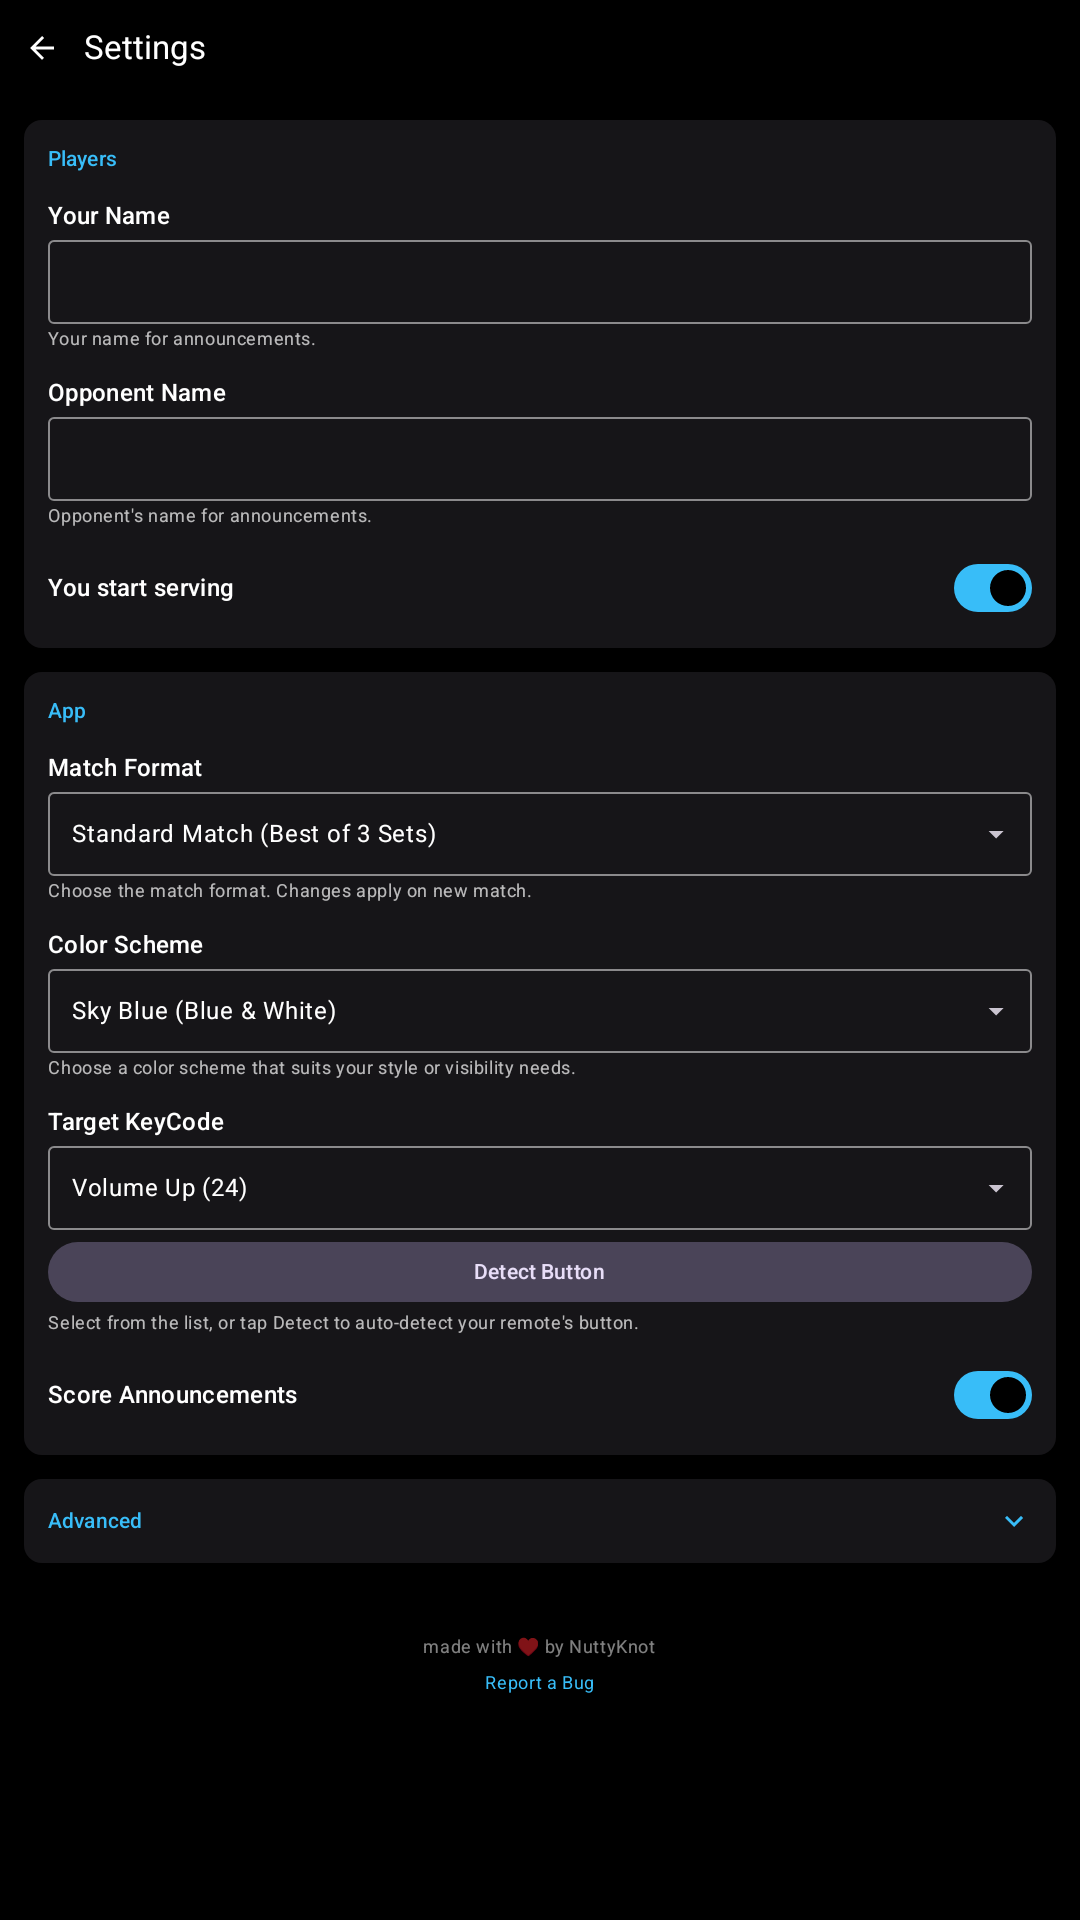
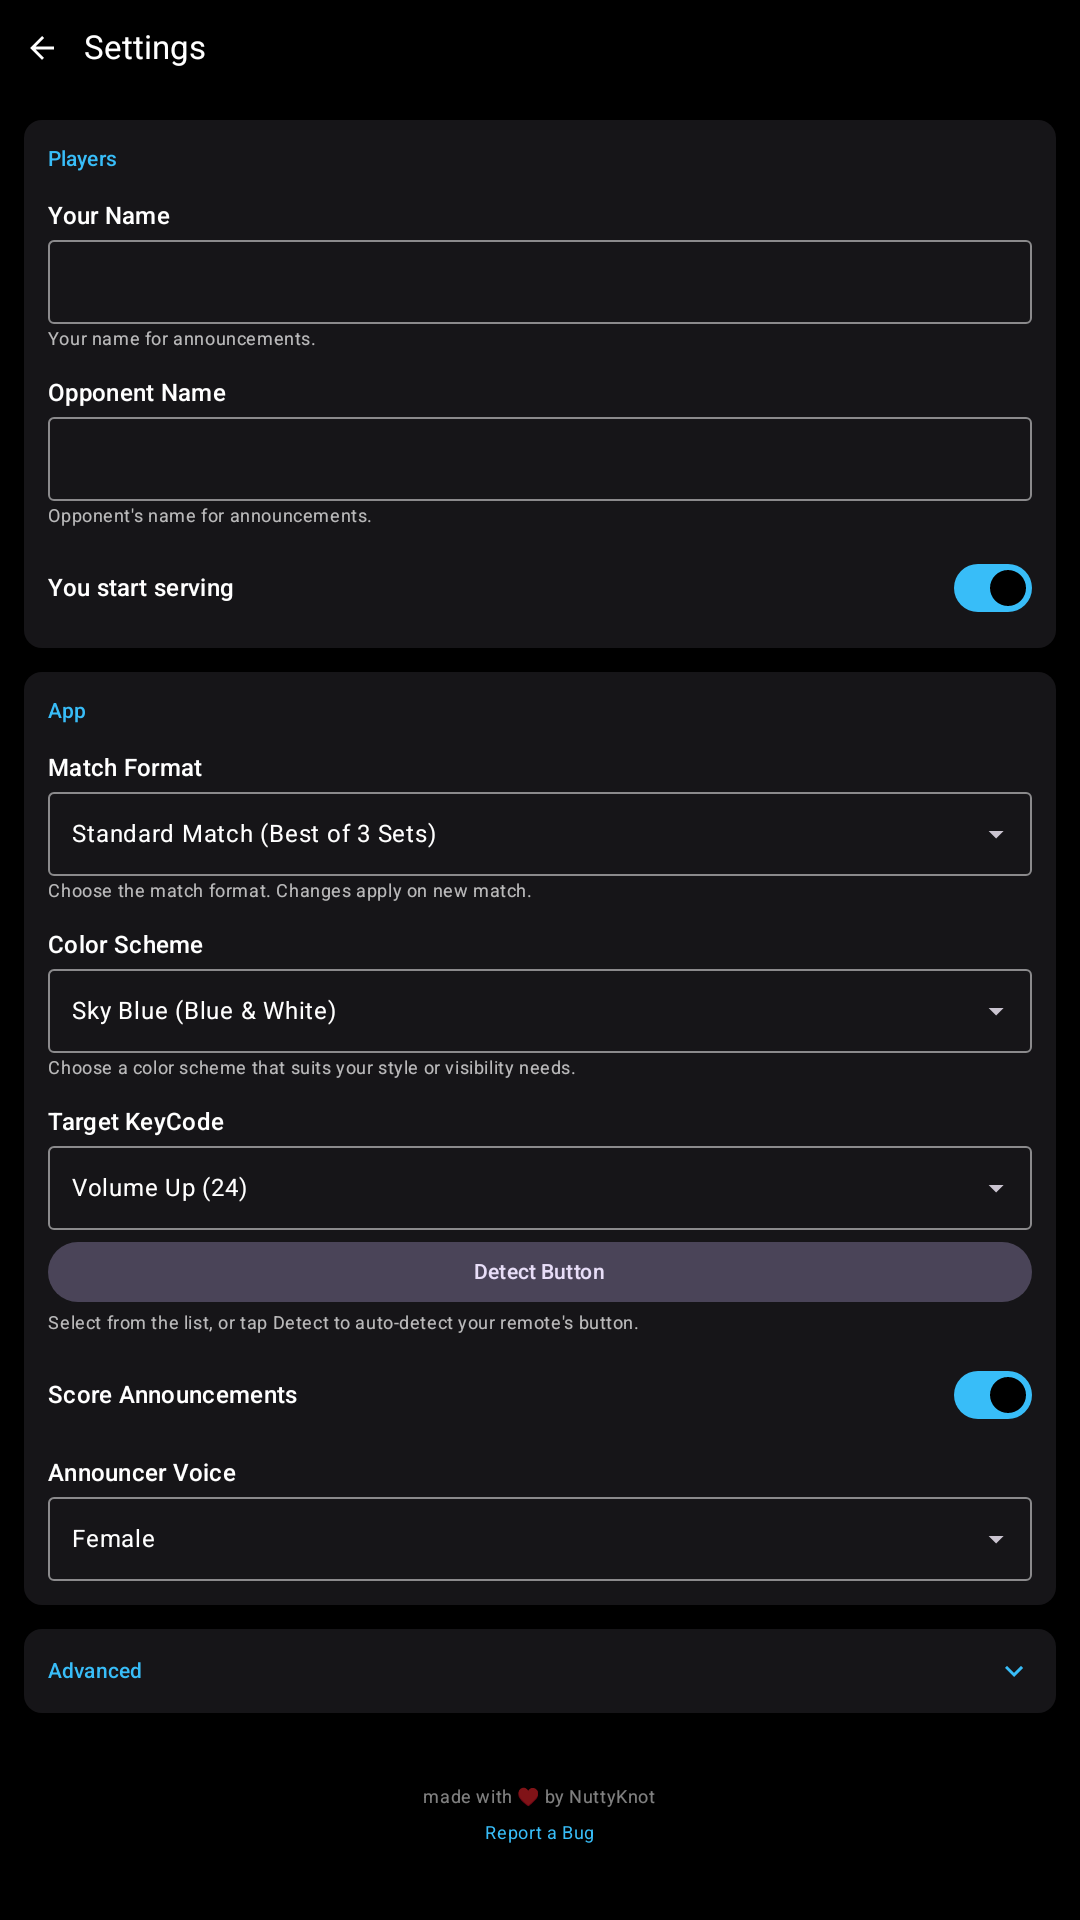
Fix TTS not working in silent mode and add male voice

diff --git a/app/src/main/java/com/nuttyknot/tennisscoretracker/ui/settings/AppSettings.kt b/app/src/main/java/com/nuttyknot/tennisscoretracker/ui/settings/AppSettings.kt
@@ -26,6 +26,7 @@ import androidx.compose.runtime.remember
 import androidx.compose.runtime.setValue
 import androidx.compose.ui.Modifier
 import androidx.compose.ui.unit.dp
+import com.nuttyknot.tennisscoretracker.AnnouncerVoice
 import com.nuttyknot.tennisscoretracker.AppTheme
 import com.nuttyknot.tennisscoretracker.MatchFormat
 
@@ -56,6 +57,13 @@ fun AppSettings(data: AppSettingsData) {
         checked = data.ttsEnabled,
         onCheckedChange = data.onTtsEnabledChange,
     )
+
+    if (data.ttsEnabled) {
+        AnnouncerVoiceDropdown(
+            currentVoice = data.announcerVoice,
+            onVoiceChange = data.onAnnouncerVoiceChange,
+        )
+    }
 }
 
 @Suppress("FunctionName")
@@ -320,11 +328,13 @@ data class AppSettingsData(
     val currentMatchFormat: MatchFormat,
     val isMatchFormatLocked: Boolean = false,
     val ttsEnabled: Boolean = true,
+    val announcerVoice: AnnouncerVoice = AnnouncerVoice.FEMALE,
     val isDetectingKeycode: Boolean = false,
     val onKeycodeChange: (Int) -> Unit,
     val onThemeChange: (AppTheme) -> Unit,
     val onMatchFormatChange: (MatchFormat) -> Unit,
     val onTtsEnabledChange: (Boolean) -> Unit = {},
+    val onAnnouncerVoiceChange: (AnnouncerVoice) -> Unit = {},
     val onDetectKeycode: () -> Unit = {},
     val onCancelDetectKeycode: () -> Unit = {},
 )
@@ -414,6 +424,67 @@ private fun MatchFormatMenuBox(
                                 },
                         ),
                 )
+            }
+        }
+    }
+}
+
+@Suppress("FunctionName")
+@OptIn(ExperimentalMaterial3Api::class)
+@Composable
+fun AnnouncerVoiceDropdown(
+    currentVoice: AnnouncerVoice,
+    onVoiceChange: (AnnouncerVoice) -> Unit,
+) {
+    var expanded by remember { mutableStateOf(false) }
+
+    Column {
+        Text(
+            text = "Announcer Voice",
+            color = MaterialTheme.colorScheme.onBackground,
+            style = MaterialTheme.typography.titleMedium,
+        )
+        Spacer(modifier = Modifier.height(4.dp))
+        ExposedDropdownMenuBox(
+            expanded = expanded,
+            onExpandedChange = { expanded = !expanded },
+        ) {
+            OutlinedTextField(
+                value = currentVoice.displayName,
+                onValueChange = {},
+                readOnly = true,
+                trailingIcon = { ExposedDropdownMenuDefaults.TrailingIcon(expanded = expanded) },
+                colors =
+                    OutlinedTextFieldDefaults.colors(
+                        focusedTextColor = MaterialTheme.colorScheme.onBackground,
+                        unfocusedTextColor = MaterialTheme.colorScheme.onBackground,
+                        focusedBorderColor = MaterialTheme.colorScheme.primary,
+                        unfocusedBorderColor = MaterialTheme.colorScheme.onBackground.copy(alpha = 0.5f),
+                    ),
+                modifier = Modifier.menuAnchor(MenuAnchorType.PrimaryNotEditable).fillMaxWidth(),
+            )
+            ExposedDropdownMenu(
+                expanded = expanded,
+                onDismissRequest = { expanded = false },
+            ) {
+                AnnouncerVoice.entries.forEach { voice ->
+                    DropdownMenuItem(
+                        text = { Text(voice.displayName) },
+                        onClick = {
+                            onVoiceChange(voice)
+                            expanded = false
+                        },
+                        colors =
+                            MenuDefaults.itemColors(
+                                textColor =
+                                    if (voice == currentVoice) {
+                                        MaterialTheme.colorScheme.primary
+                                    } else {
+                                        MaterialTheme.colorScheme.onSurface
+                                    },
+                            ),
+                    )
+                }
             }
         }
     }

diff --git a/app/src/main/java/com/nuttyknot/tennisscoretracker/ui/settings/SettingsScreen.kt b/app/src/main/java/com/nuttyknot/tennisscoretracker/ui/settings/SettingsScreen.kt
@@ -15,6 +15,7 @@ import androidx.compose.runtime.getValue
 import androidx.compose.runtime.rememberCoroutineScope
 import androidx.compose.ui.Modifier
 import androidx.compose.ui.unit.dp
+import com.nuttyknot.tennisscoretracker.AnnouncerVoice
 import com.nuttyknot.tennisscoretracker.AppTheme
 import com.nuttyknot.tennisscoretracker.MatchFormat
 import com.nuttyknot.tennisscoretracker.ScoreModel
@@ -81,6 +82,9 @@ private fun collectSettingsState(
     val appTheme by settingsManager.appThemeFlow.collectAsState(initial = SettingsManager.DEFAULT_APP_THEME)
     val matchFormat by settingsManager.matchFormatFlow.collectAsState(initial = SettingsManager.DEFAULT_MATCH_FORMAT)
     val ttsEnabled by settingsManager.ttsEnabledFlow.collectAsState(initial = SettingsManager.DEFAULT_TTS_ENABLED)
+    val announcerVoice by settingsManager.announcerVoiceFlow.collectAsState(
+        initial = SettingsManager.DEFAULT_ANNOUNCER_VOICE,
+    )
     val isDetectingKeycode by settingsManager.isDetectingKeycode.collectAsState()
 
     return SettingsState(
@@ -95,6 +99,7 @@ private fun collectSettingsState(
         appTheme = appTheme,
         matchFormat = matchFormat,
         ttsEnabled = ttsEnabled,
+        announcerVoice = announcerVoice,
     )
 }
 
@@ -110,8 +115,10 @@ private data class SettingsState(
     val appTheme: AppTheme,
     val matchFormat: MatchFormat,
     val ttsEnabled: Boolean,
+    val announcerVoice: AnnouncerVoice,
 )
 
+@Suppress("LongMethod")
 private fun buildSettingsData(
     settingsManager: SettingsManager,
     coroutineScope: kotlinx.coroutines.CoroutineScope,
@@ -139,6 +146,7 @@ private fun buildSettingsData(
             currentMatchFormat = state.matchFormat,
             isMatchFormatLocked = state.isMatchInProgress,
             ttsEnabled = state.ttsEnabled,
+            announcerVoice = state.announcerVoice,
             isDetectingKeycode = state.isDetectingKeycode,
             onKeycodeChange = { code ->
                 coroutineScope.launch { settingsManager.updateKeycode(code) }
@@ -151,6 +159,9 @@ private fun buildSettingsData(
             },
             onTtsEnabledChange = { enabled ->
                 coroutineScope.launch { settingsManager.updateTtsEnabled(enabled) }
+            },
+            onAnnouncerVoiceChange = { voice ->
+                coroutineScope.launch { settingsManager.updateAnnouncerVoice(voice) }
             },
             onDetectKeycode = { settingsManager.startKeycodeDetection() },
             onCancelDetectKeycode = { settingsManager.stopKeycodeDetection() },

diff --git a/app/src/main/java/com/nuttyknot/tennisscoretracker/SettingsManager.kt b/app/src/main/java/com/nuttyknot/tennisscoretracker/SettingsManager.kt
@@ -34,6 +34,7 @@ class SettingsManager(private val context: Context) {
         val APP_THEME = androidx.datastore.preferences.core.stringPreferencesKey("app_theme")
         val MATCH_FORMAT = stringPreferencesKey("match_format")
         val TTS_ENABLED = booleanPreferencesKey("tts_enabled")
+        val ANNOUNCER_VOICE = stringPreferencesKey("announcer_voice")
 
         const val DEFAULT_KEYCODE = KeyEvent.KEYCODE_VOLUME_UP
         const val DEFAULT_DOUBLE_CLICK_LATENCY = 300L
@@ -45,6 +46,7 @@ class SettingsManager(private val context: Context) {
         val DEFAULT_APP_THEME = AppTheme.SKY_BLUE
         val DEFAULT_MATCH_FORMAT = MatchFormat.STANDARD
         const val DEFAULT_TTS_ENABLED = true
+        val DEFAULT_ANNOUNCER_VOICE = AnnouncerVoice.FEMALE
     }
 
     private val _isDetectingKeycode = MutableStateFlow(false)
@@ -117,6 +119,12 @@ class SettingsManager(private val context: Context) {
             preferences[TTS_ENABLED] ?: DEFAULT_TTS_ENABLED
         }
 
+    val announcerVoiceFlow: Flow<AnnouncerVoice> =
+        context.dataStore.data.map { preferences ->
+            val voiceName = preferences[ANNOUNCER_VOICE] ?: DEFAULT_ANNOUNCER_VOICE.name
+            AnnouncerVoice.entries.find { it.name == voiceName } ?: DEFAULT_ANNOUNCER_VOICE
+        }
+
     suspend fun updateKeycode(keycode: Int) {
         context.dataStore.edit { preferences ->
             preferences[KEYCODE] = keycode
@@ -176,12 +184,24 @@ class SettingsManager(private val context: Context) {
             preferences[TTS_ENABLED] = enabled
         }
     }
+
+    suspend fun updateAnnouncerVoice(voice: AnnouncerVoice) {
+        context.dataStore.edit { preferences ->
+            preferences[ANNOUNCER_VOICE] = voice.name
+        }
+    }
 }
 
 enum class MatchFormat(val displayName: String) {
     STANDARD("Standard Match (Best of 3 Sets)"),
     LEAGUE("League Match (3rd Set Tiebreak)"),
     FAST("Fast Match (8-Game Pro Set, No-Ad)"),
+}
+
+@Suppress("MagicNumber")
+enum class AnnouncerVoice(val displayName: String, val pitch: Float) {
+    FEMALE("Female", 0.95f),
+    MALE("Male", 0.75f),
 }
 
 enum class AppTheme(val displayName: String, val aliasName: String) {

diff --git a/app/src/main/java/com/nuttyknot/tennisscoretracker/TtsManager.kt b/app/src/main/java/com/nuttyknot/tennisscoretracker/TtsManager.kt
@@ -40,7 +40,7 @@ class TtsManager(context: Context) {
 
                         audioAttributes =
                             AudioAttributes.Builder()
-                                .setUsage(AudioAttributes.USAGE_ASSISTANCE_SONIFICATION)
+                                .setUsage(AudioAttributes.USAGE_MEDIA)
                                 .setContentType(AudioAttributes.CONTENT_TYPE_SPEECH)
                                 .build()
                         tts?.setAudioAttributes(audioAttributes)
@@ -81,6 +81,11 @@ class TtsManager(context: Context) {
 
     private fun abandonFocus() {
         focusRequest?.let { audioManager.abandonAudioFocusRequest(it) }
+    }
+
+    fun updateVoiceGender(gender: AnnouncerVoice) {
+        if (!isInitialized) return
+        tts?.setPitch(gender.pitch)
     }
 
     fun shutdown() {

diff --git a/app/src/main/java/com/nuttyknot/tennisscoretracker/MainActivity.kt b/app/src/main/java/com/nuttyknot/tennisscoretracker/MainActivity.kt
@@ -123,6 +123,7 @@ class MainActivity : ComponentActivity() {
             }
     }
 
+    @Suppress("LongMethod")
     private fun observeSettings() {
         lifecycleScope.launch {
             repeatOnLifecycle(Lifecycle.State.STARTED) {
@@ -173,6 +174,13 @@ class MainActivity : ComponentActivity() {
             repeatOnLifecycle(Lifecycle.State.STARTED) {
                 settingsManager.appThemeFlow.collectLatest { theme ->
                     pendingTheme = theme
+                }
+            }
+        }
+        lifecycleScope.launch {
+            repeatOnLifecycle(Lifecycle.State.STARTED) {
+                settingsManager.announcerVoiceFlow.collectLatest { voice ->
+                    ttsManager.updateVoiceGender(voice)
                 }
             }
         }

diff --git a/README.md b/README.md
@@ -35,7 +35,7 @@ See the live score on your watch and score directly from your wrist. Tap the lef
 - Set player names (displayed on screen and in voice announcements)
 - Choose from 4 color themes including a colorblind-safe option
 - Adjust button sensitivity (double-click and long-press timing)
-- Toggle voice announcements on or off
+- Toggle voice announcements on or off, with male or female announcer voice
 
 When a match ends, see a complete summary with set-by-set scores and game breakdowns.
 
@@ -114,7 +114,7 @@ Multi-module Android app (app + shared + wear) built with Kotlin and Jetpack Com
 - **Hardware Input**: `KeyEventManager` intercepts raw HID KeyEvent inputs and uses a coroutine-based temporal debouncing algorithm to distinguish single click, double click, and long press from one button
 - **Scoring Engine**: `ScoreModel` exposes match state via `StateFlow` — pure state transformations with no side effects
 - **Storage**: Jetpack Preferences DataStore for settings (key codes, latency thresholds, player names, theme)
-- **TTS**: UK English locale with umpire-style speech rate and pitch
+- **TTS**: UK English locale with umpire-style speech rate, media audio stream (plays in vibrate/silent mode), and configurable voice pitch (male/female)
 - **Wear OS Sync**: `WearSyncManager` in the phone app pushes match state to the watch via Wearable Data Layer API; receives scoring commands back via `MessageClient`
 - **Shared Module**: `WearConstants` (data paths, command strings) and `WearScoreDisplay` (JSON-serializable score snapshot) shared between phone and watch
 - **Wear Module**: Standalone Wear OS app — `WearMainActivity` with ambient mode support, `WearRemoteViewModel` listens for score updates and sends commands, `WearScoreScreen` with tap zones (left=you, right=opponent, long-press=undo)
